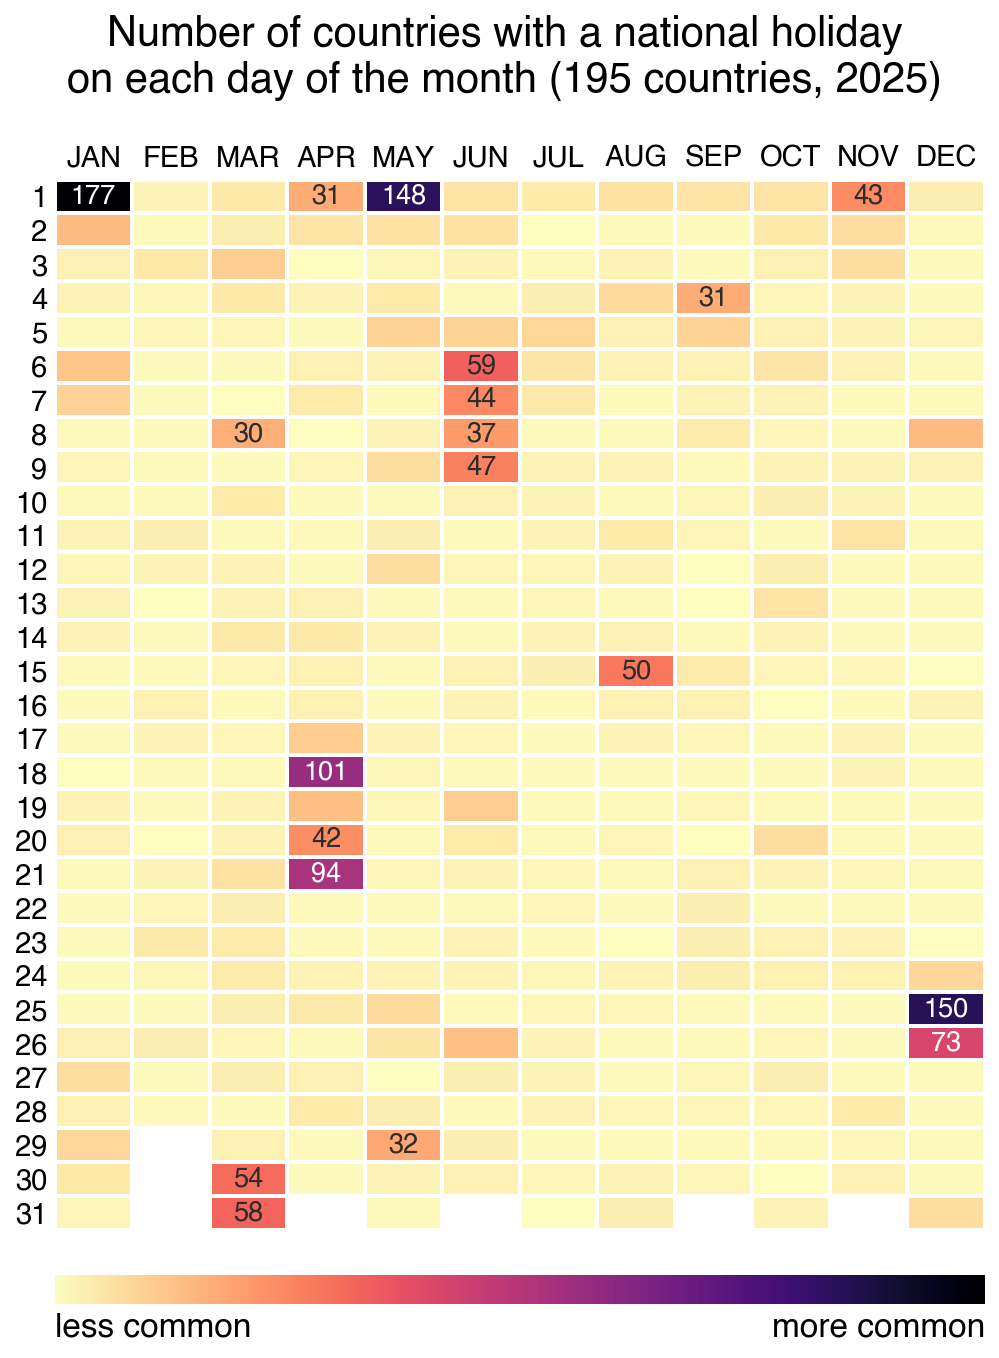
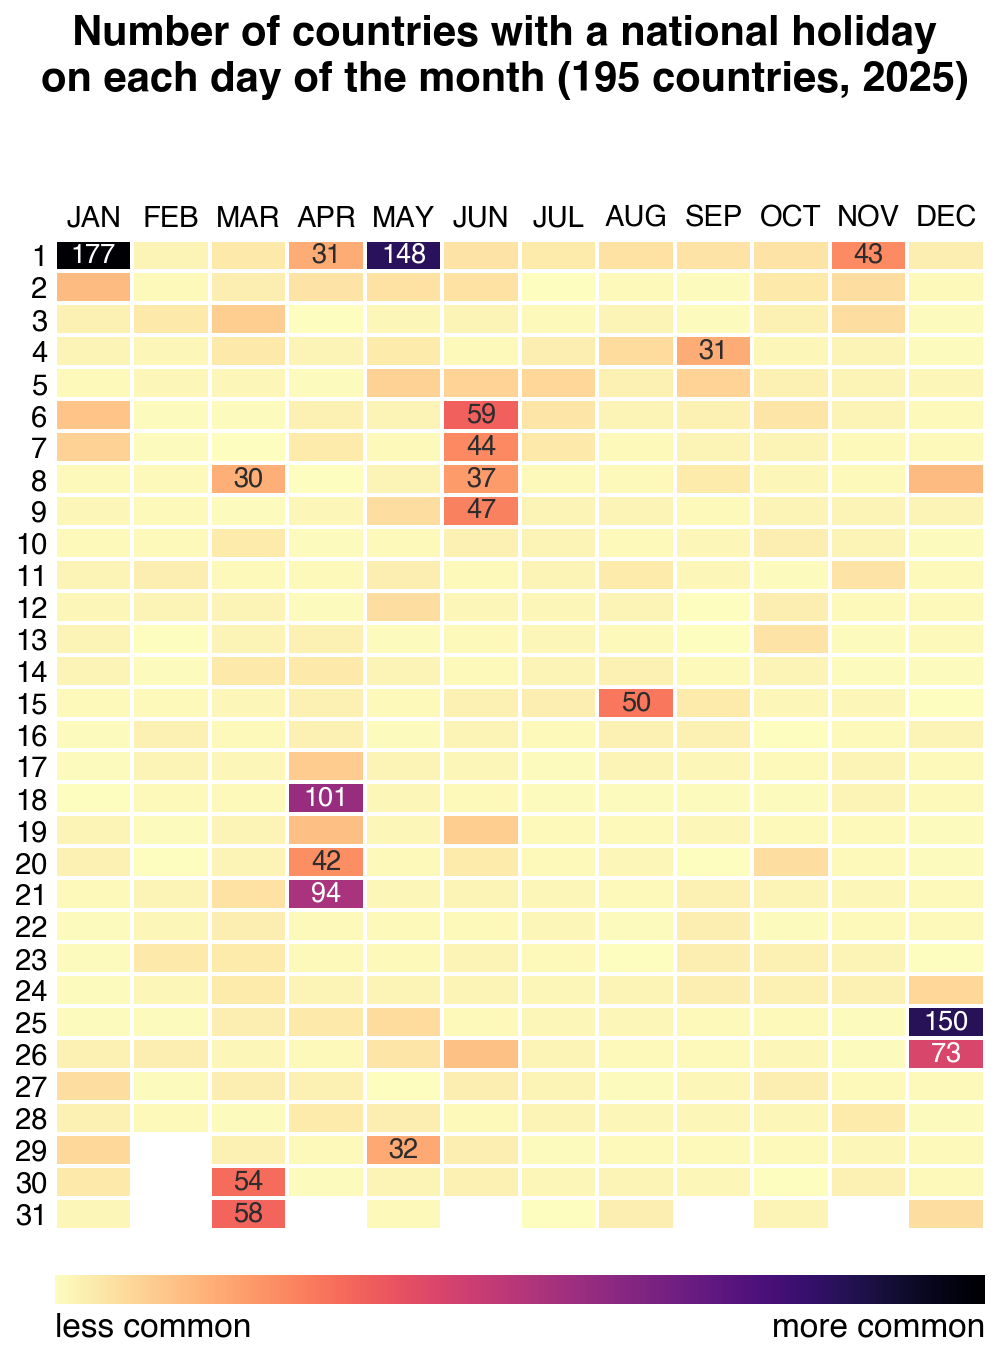
improve dataviz title

Changed region(s): [[0.0, 0.0, 0.993, 0.8969]]

diff --git a/holidays_heatmap_2025.py b/holidays_heatmap_2025.py
@@ -74,7 +74,7 @@ for day in range(1, 32):
                     fontsize=13)
 
 # Horizontal gradient legend below the heatmap ("menos comum" → "mais comum").
-fig.subplots_adjust(bottom=0.18)
+fig.subplots_adjust(bottom=0.18, top=0.84)
 bbox = ax.get_position()
 gap = 0.03        # space between heatmap and the gradient bar
 grad_h = 0.02     # height of the gradient bar
@@ -93,5 +93,5 @@ fig.text(bbox.x1, label_y, "more common", ha="right", va="top", fontsize=16)
 
 fig.suptitle(f"Number of countries with a national holiday\n"
              f"on each day of the month ({len(codes)} countries, {YEAR})",
-             fontsize=20, y=0.99)
+             fontsize=20, y=0.99, fontweight="bold")
 plt.savefig("holidays_heatmap_2025.png", dpi=150, bbox_inches="tight")
